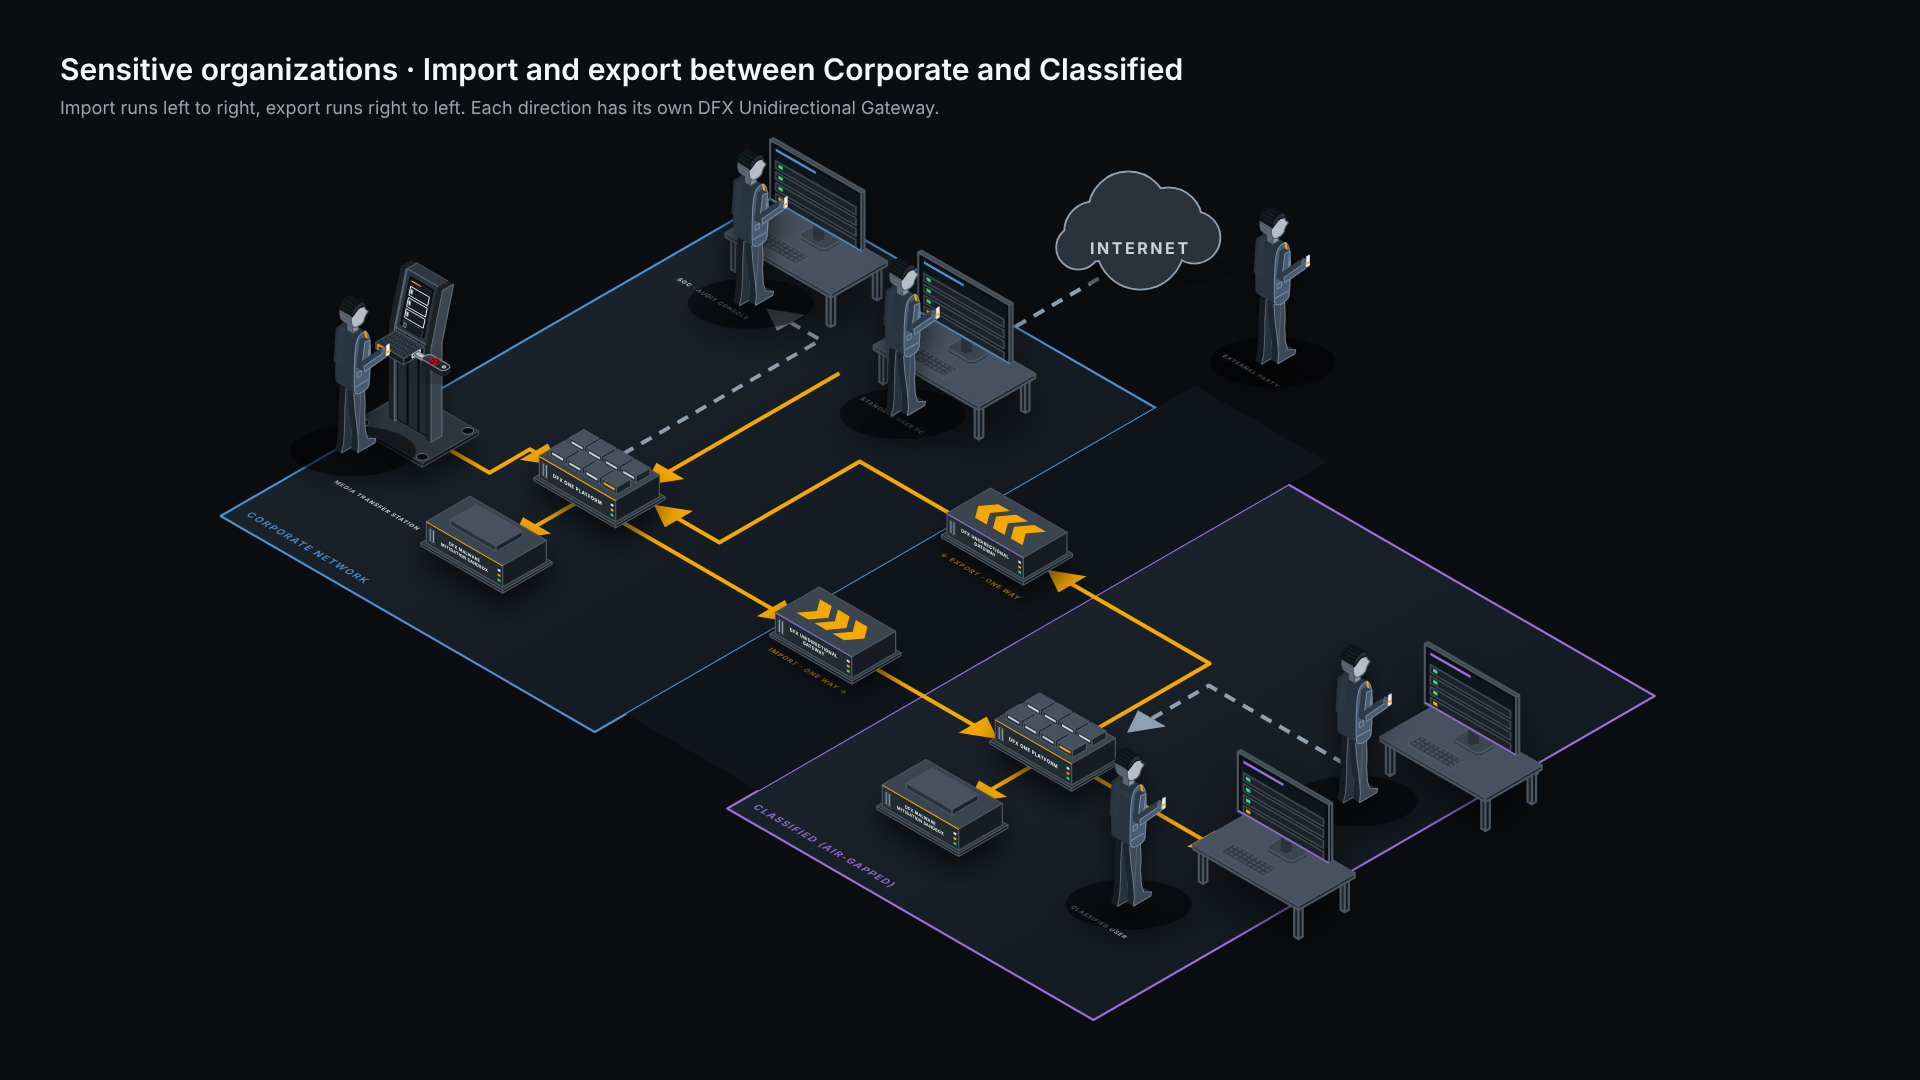
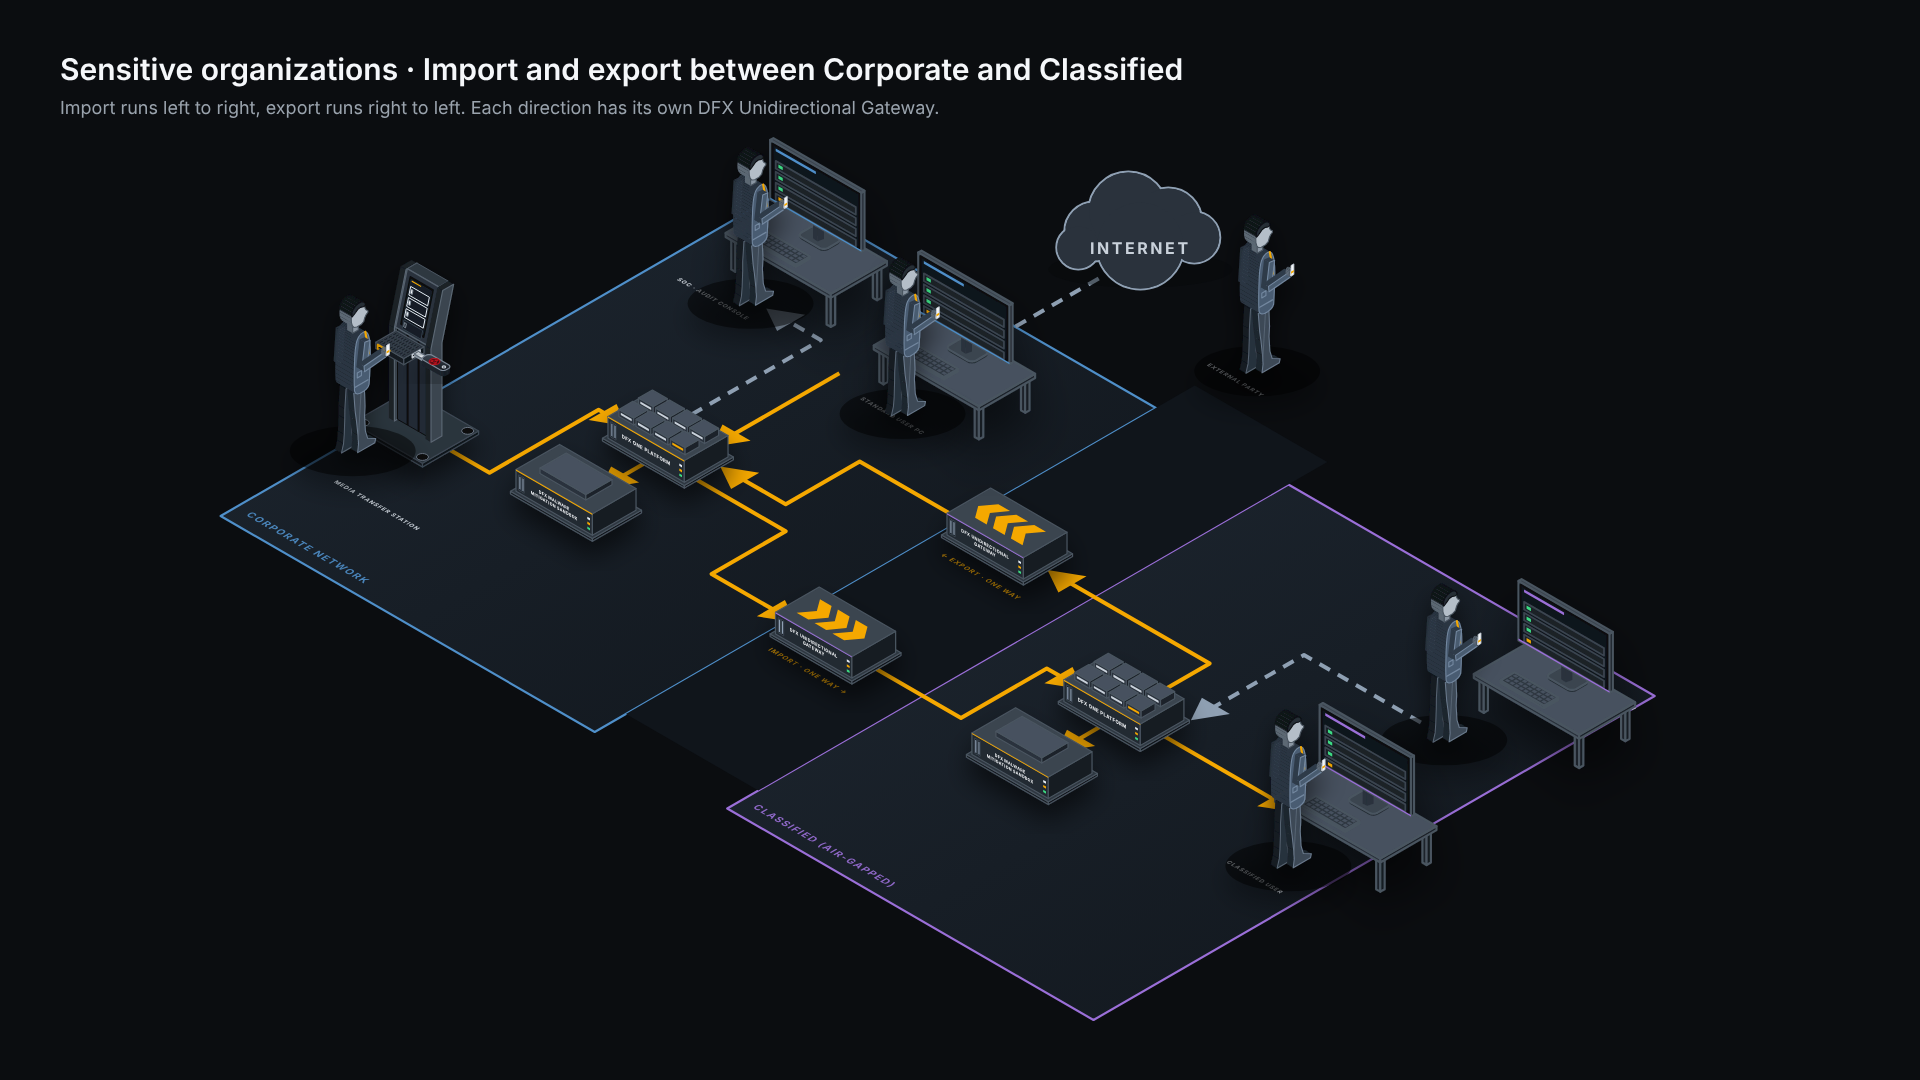
Project 02 map: layout B (symmetric DFX One), layout A kept for revert
Claude-Session: https://claude.ai/code/session_01MvE8LPuLSWASNcpUh3CZQz

Changed region(s): [[0.4375, 0.5194, 0.875, 0.8556], [0.2188, 0.3667, 0.4062, 0.55], [0.625, 0.1833, 0.6875, 0.3667]]

diff --git a/Projects/02_Sensitive_Orgs_Import_Export/environment_layoutA.html b/Projects/02_Sensitive_Orgs_Import_Export/environment_layoutA.html
@@ -1,0 +1,88 @@
+<!doctype html><html><head><meta charset="utf-8"><style>body{margin:0;background:#0B0D10;font-family:Inter,sans-serif}svg{display:block;width:1920px;height:1080px}</style></head><body>
+<svg id="s" viewBox="0 0 1920 1080"></svg>
+<script src="../../Common/iso/iso-lib.js"></script>
+<script>
+var s=document.getElementById('s'),se=ISO.se,I=function(x,y,z){return ISO.I(x,y,z||0);};
+ISO.cam={cx:470,cy:372,s:.45};ISO.defs(s);
+var d=s.querySelector('defs');
+var mk=se('marker',{id:'arg',viewBox:'0 0 10 10',refX:8,refY:5,markerWidth:7,markerHeight:7,orient:'auto'},undefined,d);se('path',{d:'M0 0L10 5L0 10z',fill:'#F5A800'},undefined,mk);
+var mg=se('marker',{id:'arw',viewBox:'0 0 10 10',refX:8,refY:5,markerWidth:7,markerHeight:7,orient:'auto'},undefined,d);se('path',{d:'M0 0L10 5L0 10z',fill:'#8FA0B3'},undefined,mg);
+se('text',{x:60,y:80,style:'font:600 30px Inter;fill:#F5F7FA'},'Sensitive organizations · Import and export between Corporate and Classified',s);
+se('text',{x:60,y:114,style:'font:400 18px Inter;fill:#9AA3AD'},'Import runs left to right, export runs right to left. Each direction has its own DFX Unidirectional Gateway.',s);
+var floor=se('g',null,undefined,s);
+function zone(x0,y0,x1,y1,col,label){
+ ISO.P([I(x0,y0),I(x1,y0),I(x1,y1),I(x0,y1)],'url(#fl)',col,floor,2.2);
+ var o=I(x0+30,y1-34,0),k=ISO.cam.s;
+ se('text',{transform:'matrix('+(0.866*k)+' '+(0.5*k)+' '+(-0.866*k)+' '+(0.5*k)+' '+o[0]+' '+o[1]+')',x:0,y:0,style:'font:700 22px Inter;fill:'+col+';letter-spacing:.14em;opacity:.9'},label,floor);}
+
+function flab(x,y,col,label,fs,op){var o=I(x,y,0),k=ISO.cam.s;se('text',{transform:'matrix('+(0.866*k)+' '+(0.5*k)+' '+(-0.866*k)+' '+(0.5*k)+' '+o[0]+' '+o[1]+')',x:0,y:0,style:'font:700 '+(fs||22)+'px Inter;fill:'+col+';letter-spacing:.14em;opacity:'+(op||.9)},label,floor);}
+zone(0,-800,960,640,'#4F8FC9','CORPORATE NETWORK');
+zone(1300,-800,2240,640,'#9B6FD8','CLASSIFIED (AIR-GAPPED)');
+ISO.P([I(960,-900),I(1300,-900),I(1300,560),I(960,560)],'#10151B','none',floor);
+var FL=[];function flow(pts,col,dash){FL.push(pts);var n=pts.length,e=pts[n-1],q=pts[n-2],dx=e[0]-q[0],dy=e[1]-q[1],Ln=Math.hypot(dx,dy);dx/=Ln;dy/=Ln;var A=64,W=36,bx=e[0]-dx*A,by=e[1]-dy*A,px=-dy,py=dx;
+ var line=pts.slice(0,n-1).concat([[bx+dx*4,by+dy*4]]).map(function(p){var a=I(p[0],p[1],1.2);return a[0].toFixed(1)+','+a[1].toFixed(1);}).join(' ');
+ se('polyline',{points:line,fill:'none',stroke:col,'stroke-width':4,'stroke-linejoin':'round','stroke-linecap':'butt','stroke-dasharray':dash||'none'},undefined,floor);
+ ISO.P([I(e[0],e[1],1.2),I(bx+px*W,by+py*W,1.2),I(bx-px*W,by-py*W,1.2)],col,'none',floor);}
+var G='#F5A800',GR='#8FA0B3';
+/* lane labels */
+flab(1000,236,G,'IMPORT · ONE WAY →',15,.8);
+flab(1010,-196,G,'← EXPORT · ONE WAY',15,.8);
+/* IMPORT (Chapter 1): station -> DFX One, web PC -> DFX One, DFX One <-> sandbox, DFX One -> inbound gateway -> Classified DFX One -> working PC */
+flow([[112,200],[250,200],[250,96],[324,96]],G);
+flow([[428,156],[428,320]],G);
+flow([[478,-470],[478,28]],G);
+flow([[526,140],[976,140]],G);
+flow([[1176,140],[1494,140]],G);
+flow([[1598,156],[1598,320]],G);
+flow([[1696,100],[2040,100]],G);
+/* EXPORT (Chapter 2): Classified DFX One -> outbound gateway -> Corporate DFX One -> station */
+flow([[1598,34],[1598,-300],[1182,-300]],G);
+flow([[974,-300],[700,-300],[700,60],[532,60]],G);
+/* approval link (inside Classified), internet link */
+flow([[2040,-250],[1646,-250],[1646,-40]],GR,'12 9');
+flow([[600,-1060],[600,-680]],GR,"12 9");
+/* audit link */
+flow([[380,34],[380,-520],[240,-520]],GR,'12 9');
+
+var items=[];function add(depth,fn){items.push([depth,fn]);}
+var g=se('g',null,undefined,s);
+function sc(ox,oy,k,fn){var gg=se('g',null,undefined,g),o=I(ox,oy,0);gg.setAttribute('transform','translate('+o[0]+' '+o[1]+') scale('+k+') translate('+(-o[0])+' '+(-o[1])+')');fn(gg);}
+/* Corporate */
+add(260,function(){ISO.assets.kiosk2(g,60,200);ISO.assets.usb(g,96,234,{z0:205});});
+add(335,function(){ISO.assets.person2(g,17,318,{refined:1,legs2:1});});
+add(524,function(){ISO.assets.platformD1(g,330,40,{mods:1});});
+add(814,function(){ISO.assets.sandbox(g,330,330);});
+add(-600,function(){sc(100,-700,1.8,function(gg){ISO.assets.deskpc(gg,100,-700,{zone:'corp'});});}); // SOC / audit console
+add(-320,function(){ISO.assets.person2(g,200,-520,{refined:1,legs2:1});});
+add(-100,function(){sc(540,-640,1.8,function(gg){ISO.assets.deskpc(gg,540,-640,{zone:'corp'});});}); // standard user PC
+add(170,function(){ISO.assets.person2(g,640,-470,{refined:1,legs2:1});});
+add(140,function(){ISO.assets.person2(g,1000,-1060,{refined:1,legs2:1});}); // external party
+/* gateways: inbound -> , outbound <- */
+add(1064,function(){ISO.assets.gateway(g,980,84,{zone:'cls'});});
+add(-250,function(){ISO.assets.gateway(g,980,-356,{zone:'cls',rev:1});});
+/* Classified */
+add(1598,function(){ISO.assets.platformD1(g,1500,40,{mods:1});});
+add(1858,function(){ISO.assets.sandbox(g,1500,330);});
+add(2120,function(){sc(2060,60,1.8,function(gg){ISO.assets.deskpc(gg,2060,60,{zone:'cls'});});}); // working PC
+add(2400,function(){ISO.assets.person2(g,2020,330,{refined:1,legs2:1});});
+add(1640,function(){sc(2060,-420,1.8,function(gg){ISO.assets.deskpc(gg,2060,-420,{zone:'cls'});});}); // data owner / approver PC
+add(1890,function(){ISO.assets.person2(g,2080,-190,{refined:1,legs2:1});});
+items.sort(function(a,b){return a[0]-b[0];}).forEach(function(i){i[1]();});
+
+/* floor tags */
+flab(70,420,'#E6EDF5','MEDIA TRANSFER STATION',13,.85);
+flab(60,-470,'#E6EDF5','SOC · AUDIT CONSOLE',13,.85);
+flab(560,-440,'#E6EDF5','STANDARD USER PC',13,.85);
+flab(2060,-470,'#E6EDF5','DATA OWNER · APPROVER',13,.85);
+flab(1960,420,'#E6EDF5','CLASSIFIED USER',13,.85);
+flab(930,-1000,'#E6EDF5','EXTERNAL PARTY',13,.85);
+
+/* Internet cloud (outside Corporate) */
+(function(){var c=I(600,-1120,70),cg=se('g',{transform:'translate('+c[0]+' '+c[1]+')'},undefined,s);
+ se('ellipse',{cx:0,cy:46,rx:92,ry:18,fill:'#07090B',opacity:.45},undefined,cg);
+ var fill='#2A323C',st='#8FA0B3';
+ [[-46,8,30],[-12,-12,40],[28,-2,34],[54,14,26],[-62,24,22],[0,22,44]].forEach(function(q){se('circle',{cx:q[0],cy:q[1],r:q[2],fill:fill,stroke:st,'stroke-width':2},undefined,cg);});
+ [[-46,8,29],[-12,-12,39],[28,-2,33],[54,14,25],[-62,24,21],[0,22,43]].forEach(function(q){se('circle',{cx:q[0],cy:q[1],r:q[2],fill:fill},undefined,cg);});
+ se('text',{x:0,y:30,'text-anchor':'middle',style:'font:700 16px Inter;fill:#C9D1DA;letter-spacing:.16em'},'INTERNET',cg);})();
+window.__done=1;
+</script></body></html>

diff --git a/Projects/02_Sensitive_Orgs_Import_Export/environment.html b/Projects/02_Sensitive_Orgs_Import_Export/environment.html
@@ -28,21 +28,21 @@ var G='#F5A800',GR='#8FA0B3';
 flab(1000,236,G,'IMPORT · ONE WAY →',15,.8);
 flab(1010,-196,G,'← EXPORT · ONE WAY',15,.8);
 /* IMPORT (Chapter 1): station -> DFX One, web PC -> DFX One, DFX One <-> sandbox, DFX One -> inbound gateway -> Classified DFX One -> working PC */
-flow([[112,200],[250,200],[250,96],[324,96]],G);
-flow([[428,156],[428,320]],G);
-flow([[478,-470],[478,28]],G);
-flow([[526,140],[976,140]],G);
-flow([[1176,140],[1494,140]],G);
-flow([[1598,156],[1598,320]],G);
-flow([[1696,100],[2040,100]],G);
+flow([[112,200],[250,200],[250,-80],[324,-80]],G);
+flow([[428,-20],[428,94]],G);
+flow([[478,-470],[478,-142]],G);
+flow([[526,-50],[760,-50],[760,140],[976,140]],G);
+flow([[1176,140],[1400,140],[1400,-80],[1494,-80]],G);
+flow([[1598,-20],[1598,94]],G);
+flow([[1696,-80],[2040,-80]],G);
 /* EXPORT (Chapter 2): Classified DFX One -> outbound gateway -> Corporate DFX One -> station */
-flow([[1598,34],[1598,-300],[1182,-300]],G);
-flow([[974,-300],[700,-300],[700,60],[532,60]],G);
+flow([[1598,-142],[1598,-300],[1182,-300]],G);
+flow([[974,-300],[700,-300],[700,-110],[532,-110]],G);
 /* approval link (inside Classified), internet link */
-flow([[2040,-250],[1646,-250],[1646,-40]],GR,'12 9');
+flow([[2000,-440],[1700,-440],[1700,-150]],GR,'12 9');
 flow([[600,-1060],[600,-680]],GR,"12 9");
 /* audit link */
-flow([[380,34],[380,-520],[240,-520]],GR,'12 9');
+flow([[380,-142],[380,-520],[240,-520]],GR,'12 9');
 
 var items=[];function add(depth,fn){items.push([depth,fn]);}
 var g=se('g',null,undefined,s);
@@ -50,32 +50,32 @@ function sc(ox,oy,k,fn){var gg=se('g',null,undefined,g),o=I(ox,oy,0);gg.setAttri
 /* Corporate */
 add(260,function(){ISO.assets.kiosk2(g,60,200);ISO.assets.usb(g,96,234,{z0:205});});
 add(335,function(){ISO.assets.person2(g,17,318,{refined:1,legs2:1});});
-add(524,function(){ISO.assets.platformD1(g,330,40,{mods:1});});
-add(814,function(){ISO.assets.sandbox(g,330,330);});
+add(288,function(){ISO.assets.platformD1(g,330,-136,{mods:1});});
+add(428,function(){ISO.assets.sandbox(g,330,100);});
 add(-600,function(){sc(100,-700,1.8,function(gg){ISO.assets.deskpc(gg,100,-700,{zone:'corp'});});}); // SOC / audit console
 add(-320,function(){ISO.assets.person2(g,200,-520,{refined:1,legs2:1});});
 add(-100,function(){sc(540,-640,1.8,function(gg){ISO.assets.deskpc(gg,540,-640,{zone:'corp'});});}); // standard user PC
 add(170,function(){ISO.assets.person2(g,640,-470,{refined:1,legs2:1});});
-add(140,function(){ISO.assets.person2(g,1000,-1060,{refined:1,legs2:1});}); // external party
+add(-20,function(){ISO.assets.person2(g,1000,-1020,{refined:1,legs2:1});}); // external party
 /* gateways: inbound -> , outbound <- */
 add(1064,function(){ISO.assets.gateway(g,980,84,{zone:'cls'});});
 add(-250,function(){ISO.assets.gateway(g,980,-356,{zone:'cls',rev:1});});
 /* Classified */
-add(1598,function(){ISO.assets.platformD1(g,1500,40,{mods:1});});
-add(1858,function(){ISO.assets.sandbox(g,1500,330);});
-add(2120,function(){sc(2060,60,1.8,function(gg){ISO.assets.deskpc(gg,2060,60,{zone:'cls'});});}); // working PC
-add(2400,function(){ISO.assets.person2(g,2020,330,{refined:1,legs2:1});});
-add(1640,function(){sc(2060,-420,1.8,function(gg){ISO.assets.deskpc(gg,2060,-420,{zone:'cls'});});}); // data owner / approver PC
-add(1890,function(){ISO.assets.person2(g,2080,-190,{refined:1,legs2:1});});
+add(1462,function(){ISO.assets.platformD1(g,1500,-136,{mods:1});});
+add(1698,function(){ISO.assets.sandbox(g,1500,100);});
+add(2120,function(){sc(2060,-150,1.8,function(gg){ISO.assets.deskpc(gg,2060,-150,{zone:'cls'});});}); // working PC
+add(2180,function(){ISO.assets.person2(g,2140,40,{refined:1,legs2:1});});
+add(1360,function(){sc(2040,-680,1.8,function(gg){ISO.assets.deskpc(gg,2040,-680,{zone:'cls'});});}); // data owner / approver PC
+add(1560,function(){ISO.assets.person2(g,2060,-440,{refined:1,legs2:1});});
 items.sort(function(a,b){return a[0]-b[0];}).forEach(function(i){i[1]();});
 
 /* floor tags */
 flab(70,420,'#E6EDF5','MEDIA TRANSFER STATION',13,.85);
 flab(60,-470,'#E6EDF5','SOC · AUDIT CONSOLE',13,.85);
 flab(560,-440,'#E6EDF5','STANDARD USER PC',13,.85);
-flab(2060,-470,'#E6EDF5','DATA OWNER · APPROVER',13,.85);
-flab(1960,420,'#E6EDF5','CLASSIFIED USER',13,.85);
-flab(930,-1000,'#E6EDF5','EXTERNAL PARTY',13,.85);
+flab(2040,-740,'#E6EDF5','DATA OWNER · APPROVER',13,.85);
+flab(2060,120,'#E6EDF5','CLASSIFIED USER',13,.85);
+flab(930,-960,'#E6EDF5','EXTERNAL PARTY',13,.85);
 
 /* Internet cloud (outside Corporate) */
 (function(){var c=I(600,-1120,70),cg=se('g',{transform:'translate('+c[0]+' '+c[1]+')'},undefined,s);

diff --git a/Projects/02_Sensitive_Orgs_Import_Export/PLAN.md b/Projects/02_Sensitive_Orgs_Import_Export/PLAN.md
@@ -67,3 +67,7 @@ Film: about 215 s, one film in two chapters ("Into Classified", "Out of Classifi
 ## Decisions recorded (latest round)
 - File sets use this audience's vocabulary (my proposal approved); chapter titles are a lower-third banner over the running scene; English master first, Turkish version after approval.
 - Map built (environment.html, static): Corporate (station, DFX One + sandbox, SOC audit PC, standard user PC), larger Classified (DFX One + own sandbox, approver PC, working PC), two separate gateways (inbound lane left to right, outbound lane right to left, mirrored lid via `rev` option in Common/iso/iso-lib.js), Internet cloud and external party outside Corporate. Project 01 stills verified byte-identical after the Common change.
+
+## Map layout options (user may revert)
+- Layout A (`environment_layoutA.html/.png`): DFX One pair offset toward the front, flows enter DFX One on separate faces.
+- Layout B (`environment.html`, `environment_layoutB.png`, current): both DFX One + sandbox pairs centred between the inbound lane (y=140) and outbound lane (y=-300); external party moved out of the gap strip. To revert: copy environment_layoutA.html over environment.html.
